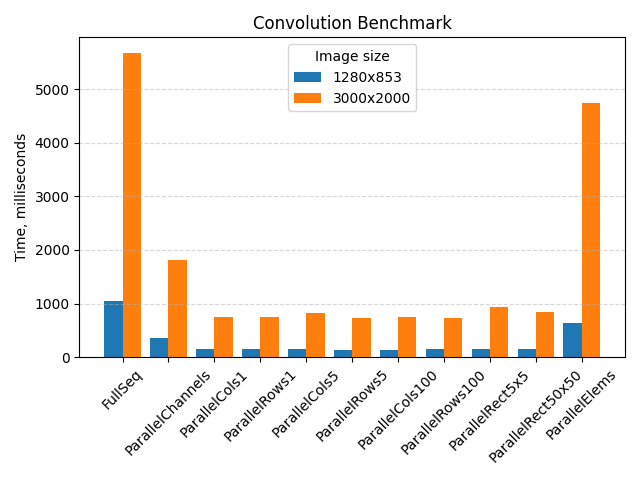
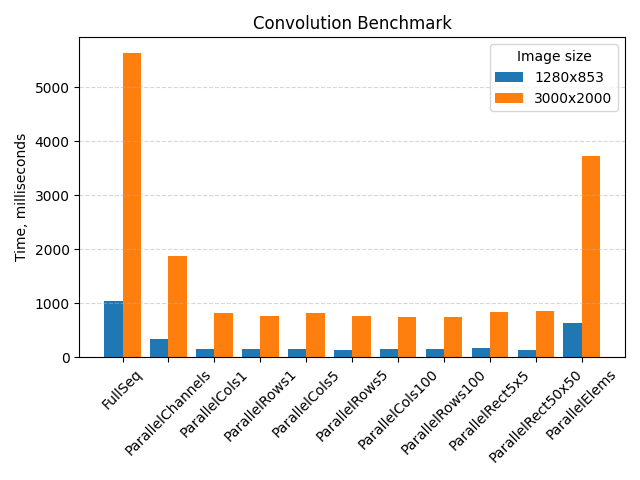
update Readme experiment

diff --git a/app/src/jmh/kotlin/bench/pipeline/BenchPipeline.kt b/app/src/jmh/kotlin/bench/pipeline/BenchPipeline.kt
@@ -22,8 +22,8 @@ enum class ConvolutionMode(val make: () -> ConvMode) {
 @State(Scope.Benchmark)
 @BenchmarkMode(Mode.SingleShotTime)
 @OutputTimeUnit(TimeUnit.SECONDS)
-@Warmup(iterations = 3)
-@Measurement(iterations = 10)
+@Warmup(iterations = 2)
+@Measurement(iterations = 7)
 @Fork(1)
 open class BenchPipeline {
     @Param
